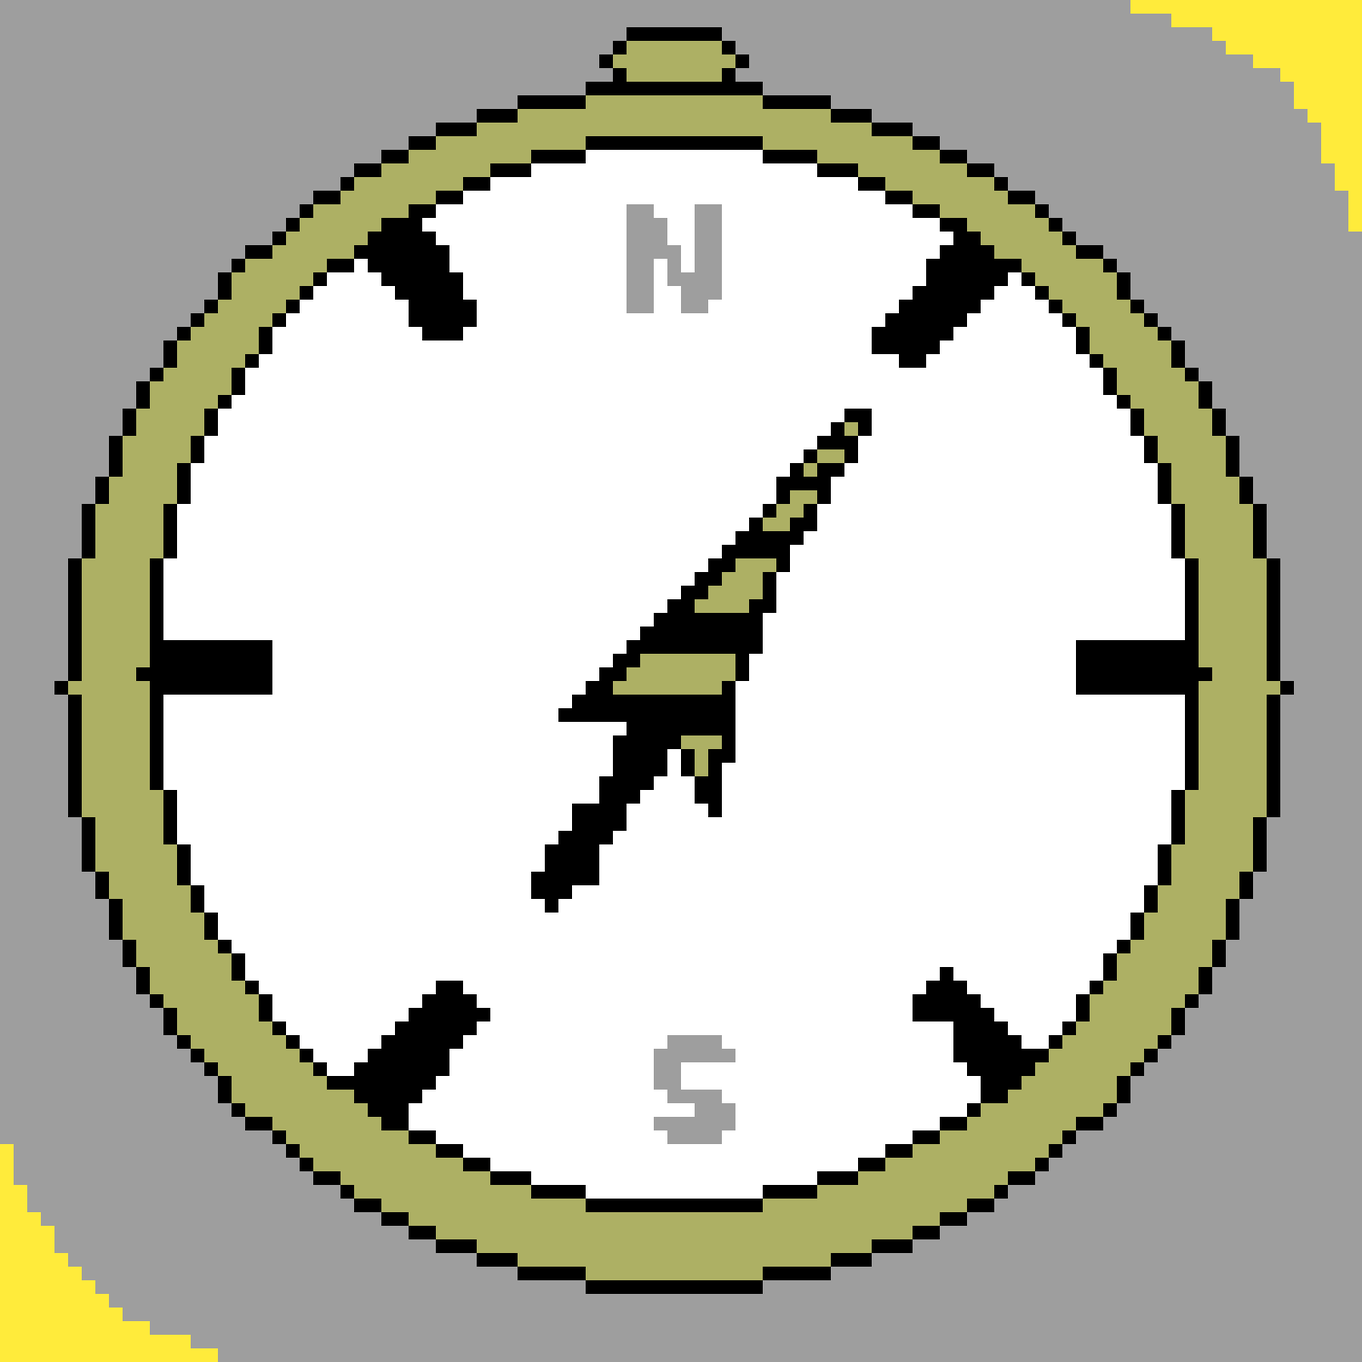
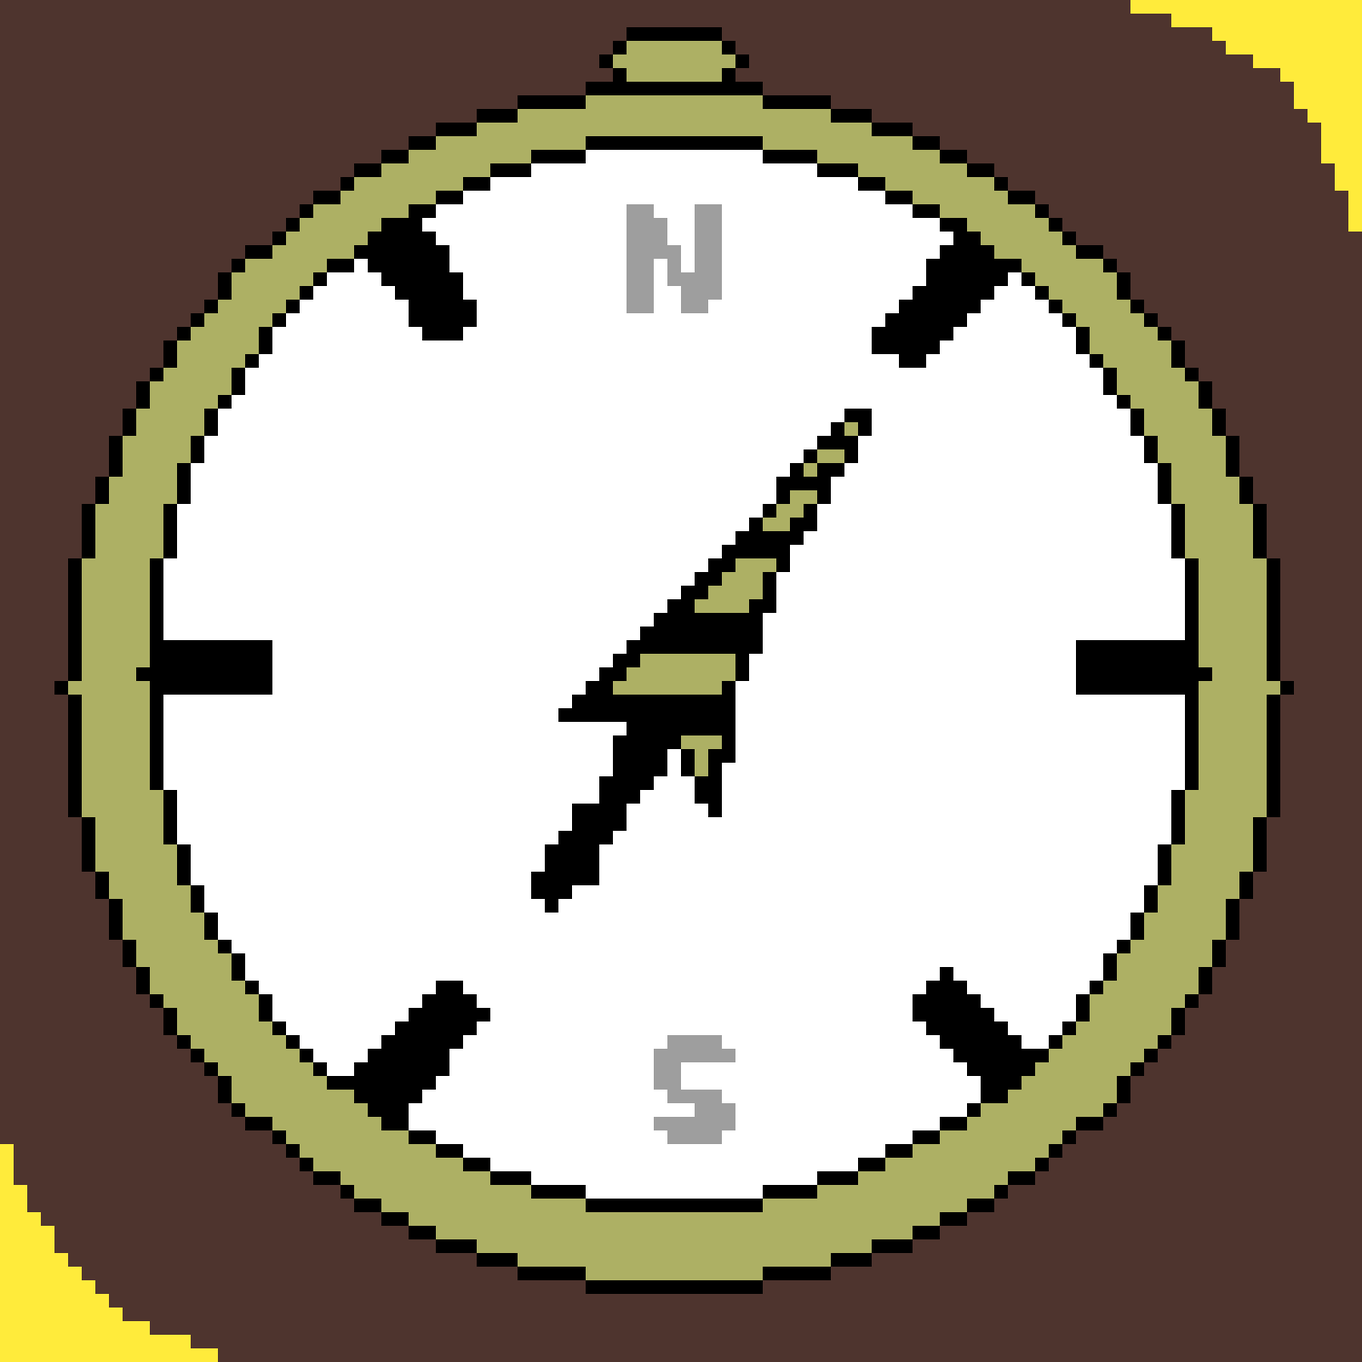
Add campus branding, bishop POI pins and animated guide dialogue

diff --git a/frontend/src/components/MapOverlays.tsx b/frontend/src/components/MapOverlays.tsx
@@ -1,9 +1,11 @@
 import { useEffect, useRef } from 'react';
-import { AttributionControl, LngLatBounds, type Map, type GeoJSONSource } from 'maplibre-gl';
+import { AttributionControl, LngLatBounds, Marker, type Map, type GeoJSONSource } from 'maplibre-gl';
 import type { FeatureCollection, Point } from 'geojson';
 import type { CampusPoi } from '../data/pois';
 import type { UserLocation } from '../services/location';
 import type { NearestRoute } from '../services/routing';
+import bishopPin from '../assets/W_Bishop.png';
+import './MapOverlays.css';
 
 interface MapOverlaysProps {
   map: Map | null;
@@ -12,24 +14,30 @@ interface MapOverlaysProps {
   route: NearestRoute | null;
 }
 
-const SOURCE_POIS = 'campus-custom-pois';
 const SOURCE_ROUTE = 'campus-walking-route';
 const SOURCE_LOCATION = 'campus-user-location';
-const LAYERS = ['campus-route-outline', 'campus-route-line', 'campus-poi-points', 'campus-location-point'];
+const LAYERS = ['campus-route-outline', 'campus-route-line', 'campus-location-point', 'campus-route-glow'];
 
 export default function MapOverlays({ map, pois, location, route }: MapOverlaysProps) {
   const fittedDestination = useRef<string | null>(null);
   useEffect(() => {
     if (!map) return;
-    const poiData: FeatureCollection<Point> = {
-      type: 'FeatureCollection',
-      features: pois.map((poi) => ({
-        type: 'Feature',
-        id: poi.id,
-        geometry: { type: 'Point', coordinates: poi.coordinates },
-        properties: { id: poi.id, name: poi.name, nearest: poi.id === route?.poi.id },
-      })),
-    };
+    const markers = pois.map((poi) => {
+      const element = document.createElement('div');
+      const destination = poi.id === route?.poi.id;
+      element.className = `campus-poi-pin${destination ? ' campus-poi-pin-destination' : ''}`;
+      element.title = `${poi.name}${destination ? ' · Destination' : ''}`;
+      const icon = document.createElement('img');
+      icon.src = bishopPin;
+      icon.alt = element.title;
+      icon.draggable = false;
+      element.append(icon);
+      return new Marker({ element, anchor: 'bottom' }).setLngLat(poi.coordinates).addTo(map);
+    });
+    return () => { for (const marker of markers) marker.remove(); };
+  }, [map, pois, route?.poi.id]);
+  useEffect(() => {
+    if (!map) return;
     const locationData: FeatureCollection<Point> = {
       type: 'FeatureCollection',
       features: location ? [{
@@ -43,12 +51,15 @@ export default function MapOverlays({ map, pois, location, route }: MapOverlaysP
     const sync = () => {
       if (synced) return;
       synced = true;
-      if (!map.getSource(SOURCE_POIS)) map.addSource(SOURCE_POIS, { type: 'geojson', data: poiData });
-      else (map.getSource(SOURCE_POIS) as GeoJSONSource).setData(poiData);
       if (!map.getSource(SOURCE_LOCATION)) map.addSource(SOURCE_LOCATION, { type: 'geojson', data: locationData });
       else (map.getSource(SOURCE_LOCATION) as GeoJSONSource).setData(locationData);
       if (route && !map.getSource(SOURCE_ROUTE)) {
         map.addSource(SOURCE_ROUTE, { type: 'geojson', data: route.feature });
+        map.addLayer({
+          id: LAYERS[3], type: 'line', source: SOURCE_ROUTE,
+          layout: { 'line-join': 'round', 'line-cap': 'round' },
+          paint: { 'line-color': '#ffc904', 'line-width': 18, 'line-blur': 7, 'line-opacity': 0.35 },
+        });
         map.addLayer({
           id: LAYERS[0], type: 'line', source: SOURCE_ROUTE,
           layout: { 'line-join': 'round', 'line-cap': 'round' },
@@ -60,17 +71,8 @@ export default function MapOverlays({ map, pois, location, route }: MapOverlaysP
           paint: { 'line-color': '#ffc904', 'line-width': 5 },
         });
       }
-      if (!map.getLayer(LAYERS[2])) map.addLayer({ // POI highlight
-        id: LAYERS[2], type: 'circle', source: SOURCE_POIS,
-        paint: {
-          'circle-radius': ['case', ['get', 'nearest'], 11, 7],
-          'circle-color': '#ffffff',
-          'circle-stroke-color': ['case', ['get', 'nearest'], '#ffffff', '#111111'],
-          'circle-stroke-width': 3,
-        },
-      });
-      if (!map.getLayer(LAYERS[3])) map.addLayer({
-        id: LAYERS[3], type: 'circle', source: SOURCE_LOCATION,
+      if (!map.getLayer(LAYERS[2])) map.addLayer({
+        id: LAYERS[2], type: 'circle', source: SOURCE_LOCATION,
         paint: { 'circle-radius': 7, 'circle-color': '#68c8ff', 'circle-stroke-color': '#ffffff', 'circle-stroke-width': 2 },
       });
     };
@@ -94,9 +96,9 @@ export default function MapOverlays({ map, pois, location, route }: MapOverlaysP
       if (!map.getStyle()) return;
       if (attribution && map.hasControl(attribution)) map.removeControl(attribution);
       for (const id of [...LAYERS].reverse()) if (map.getLayer(id)) map.removeLayer(id);
-      for (const id of [SOURCE_POIS, SOURCE_ROUTE, SOURCE_LOCATION]) if (map.getSource(id)) map.removeSource(id);
+      for (const id of [SOURCE_ROUTE, SOURCE_LOCATION]) if (map.getSource(id)) map.removeSource(id);
     };
-  }, [map, pois, location, route]);
+  }, [map, location, route]);
 
   useEffect(() => {
     if (!route) { fittedDestination.current = null; return; }

diff --git a/frontend/src/components/SpriteGuide.tsx b/frontend/src/components/SpriteGuide.tsx
@@ -6,6 +6,13 @@ import type { NearestRoute } from '../services/routing';
 import { distanceMeters, type UserLocation } from '../services/location';
 import { advanceGuidance } from '../services/guidance';
 import './SpriteGuide.css';
+import GuideDialogue from './GuideDialogue';
+
+const CHARACTERS = [
+  { name: 'Knightro', greeting: 'Your next quest awaits!', turn: 'Onward, Knight!', arrival: 'Quest complete! Nicely done.' },
+  { name: 'Citronaut', greeting: 'Ready for a campus expedition?', turn: 'Next stop, explorer!', arrival: 'Touchdown! We made it.' },
+  { name: 'Lenny', greeting: 'Let’s take a little campus stroll.', turn: 'You’ve got this. Here’s our next move.', arrival: 'Look at us go! We made it.' },
+];
 
 export default function SpriteGuide({ route, location, navigating, arrived }: {
   route: NearestRoute; location: UserLocation | null; navigating: boolean; arrived: boolean;
@@ -24,11 +31,15 @@ export default function SpriteGuide({ route, location, navigating, arrived }: {
   const message = arrived
     ? route.poi.entranceCoordinates ? 'We made it to the entrance! Head inside to your destination.' : 'We made it! You have reached your destination.'
     : route.steps[index]?.instruction ?? 'Follow the gold path toward your destination. Turn-by-turn directions are unavailable for this route.';
-  return <section className="sprite-guide" aria-label="Sprite walking guide">
+  const character = CHARACTERS[sprite];
+  const dialogue = `${arrived ? character.arrival : index === 0 ? character.greeting : character.turn} ${message}`;
+  return <section className={`sprite-guide${arrived ? ' guide-arrived' : ''}`} aria-label="Sprite walking guide">
     <div className="guide-chat">
-      <div className="guide-avatar" aria-hidden="true"><img src={[spriteOne, spriteTwo, spriteThree][sprite]} style={sprite === 1 ? { width: 256, height: 256, left: -54, top: -59 } : sprite === 2 ? { top: -80 } : undefined} alt="" /></div>
+      <div className="guide-avatar" aria-hidden="true"><img key={`${sprite}-${message}`} src={[spriteOne, spriteTwo, spriteThree][sprite]} style={sprite === 1 ? { width: 256, height: 256, left: -54, top: -59 } : sprite === 2 ? { top: -80 } : undefined} alt="" /></div>
       <div className="guide-bubble">
-        <div role="status" aria-live="polite" aria-atomic="true"><strong>Campus guide</strong><p>{message}</p></div>
+        <div className="guide-nameplate"><strong>{character.name}</strong><span>{arrived ? '★ ARRIVED' : 'YOUR CAMPUS COMPANION'}</span></div>
+        <div key={dialogue} className="guide-dialogue-entry"><GuideDialogue text={dialogue} /></div>
+        {route.steps.length > 0 && <progress className="guide-progress" aria-label="Walking directions completed" max={route.steps.length} value={arrived ? route.steps.length : index} />}
     {!arrived && <>
       {route.steps.length > 0 && <p className="setup-note">Direction {index + 1} of {route.steps.length}</p>}
       {navigating && distance !== null && <p className="setup-note">About {distance} m to the next direction.</p>}
@@ -40,7 +51,7 @@ export default function SpriteGuide({ route, location, navigating, arrived }: {
       <summary>Change guide</summary>
       <label htmlFor="guide-character">Your guide</label>
       <select id="guide-character" value={sprite} onChange={(event) => setSprite(Number(event.target.value))}>
-        <option value={0}>Sprite 1</option><option value={1}>Sprite 2</option><option value={2}>Sprite 3</option>
+        {CHARACTERS.map((item, position) => <option key={item.name} value={position}>{item.name}</option>)}
       </select>
     </details>
       </div>

diff --git a/frontend/src/components/PoiPanel.tsx b/frontend/src/components/PoiPanel.tsx
@@ -2,6 +2,7 @@ import { POI_CATEGORIES, type CampusPoi, type PoiCategory } from '../data/pois';
 import type { NearestRoute } from '../services/routing';
 import type { UserLocation } from '../services/location';
 import './PoiPanel.css';
+import BrandLogo from './BrandLogo';
 
 interface PoiPanelProps {
   compassEnabled: boolean;
@@ -33,7 +34,7 @@ export default function PoiPanel(props: PoiPanelProps) {
   const destination = props.pois.find((poi) => poi.id === props.destinationId);
   const choosing = !props.route && !props.busy;
   return <section className="poi-panel" aria-label="Campus navigation">
-    <p className="panel-eyebrow">{props.arrived ? 'YOU MADE IT' : props.route ? 'ON YOUR WAY' : 'EXPLORE CAMPUS'}</p>
+    <div className="panel-brand"><BrandLogo small /><p className="panel-eyebrow">{props.arrived ? 'YOU MADE IT' : props.route ? 'ON YOUR WAY' : 'EXPLORE CAMPUS'}</p></div>
     <h1>{props.route ? props.route.poi.name : 'Where are we going?'}</h1>
     {choosing && <>
       <label htmlFor="poi-category">What are you looking for?</label>
@@ -41,6 +42,10 @@ export default function PoiPanel(props: PoiPanelProps) {
         {POI_CATEGORIES.map((item) => <option key={item.id} value={item.id}>{item.label}</option>)}
       </select>
       <p className="setup-note">Find the nearest spot, or choose one below.</p>
+      <button className="route-button" onClick={destination ? props.onNavigate : props.onRouteNearest} disabled={!props.hasRouting || props.pois.length === 0}>
+        {destination ? 'Start walking' : 'Take me to the nearest'}
+      </button>
+      {destination && <button className="quiet-button" onClick={() => props.onDestinationChange('')}>Use nearest instead</button>}
       <ul className="poi-list" aria-label={categoryName}>
         {props.pois.map((poi) => <li key={poi.id}>
           <button onClick={() => props.onFocusPoi(poi)} aria-pressed={poi.id === props.destinationId}>
@@ -49,10 +54,6 @@ export default function PoiPanel(props: PoiPanelProps) {
         </li>)}
       </ul>
       {props.pois.length === 0 && <p>No destinations in this category yet.</p>}
-      <button className="route-button" onClick={destination ? props.onNavigate : props.onRouteNearest} disabled={!props.hasRouting || props.pois.length === 0}>
-        {destination ? 'Start walking' : 'Take me to the nearest'}
-      </button>
-      {destination && <button className="quiet-button" onClick={() => props.onDestinationChange('')}>Use nearest instead</button>}
     </>}
     {props.busy && <button className="secondary-button" onClick={props.onClearRoute}>Cancel</button>}
     <p className="route-status" role="status" aria-live="polite">{props.status}</p>

diff --git a/frontend/src/components/SpriteGuide.css b/frontend/src/components/SpriteGuide.css
@@ -14,5 +14,24 @@
 .guide-preferences label { display: block; margin-top: 10px; }
 .guide-preferences select { width: 100%; margin-top: 6px; padding: 8px; background: #111; color: #ffc904; border: 1px solid #8c783e; }
 .sprite-guide :focus-visible { outline: 2px solid white; outline-offset: 3px; }
+.sprite-guide { animation: companion-enter .45s cubic-bezier(.2,.9,.3,1.2) both; }
+.guide-avatar img { animation: companion-hop .5s ease-out; }
+.guide-bubble { border-radius: 14px; box-shadow: 4px 4px #000, 0 0 22px #ffc90418; }
+.guide-nameplate { display: flex; flex-wrap: wrap; align-items: center; gap: 6px 12px; }
+.guide-nameplate strong { font-size: 22px; }
+.guide-nameplate span { font-size: 10px; letter-spacing: 1px; color: #c4b88d; }
+.guide-dialogue { line-height: 1.5; min-height: 4.5em; margin-top: 10px; }
+.guide-dialogue-entry { animation: dialogue-enter .25s ease-out; }
+.guide-reveal { margin-top: 10px; padding: 4px 0; border: 0; background: transparent; color: #c4b88d; text-decoration: underline; font-size: 12px; cursor: pointer; }
+.guide-progress { display: block; width: 100%; height: 5px; margin-top: 16px; border: 0; background: #49402b; accent-color: #ffc904; }
+.guide-progress::-webkit-progress-bar { background: #49402b; border-radius: 8px; }
+.guide-progress::-webkit-progress-value { background: #ffc904; border-radius: 8px; transition: width .4s ease; }
+.guide-progress::-moz-progress-bar { background: #ffc904; }
+.guide-arrived .guide-bubble { border-color: #b9e98a; box-shadow: 4px 4px #000, 0 0 24px #b9e98330; }
+.guide-sr-only { position: absolute; width: 1px; height: 1px; padding: 0; margin: -1px; overflow: hidden; clip-path: inset(50%); white-space: nowrap; border: 0; }
+@keyframes companion-enter { from { opacity: 0; transform: translateY(24px) scale(.96); } to { opacity: 1; transform: translateY(0) scale(1); } }
+@keyframes companion-hop { 0%, 100% { transform: translateY(0); } 45% { transform: translateY(-10px); } }
+@keyframes dialogue-enter { from { opacity: 0; transform: translateY(6px); } to { opacity: 1; transform: translateY(0); } }
+@media (prefers-reduced-motion: reduce) { .sprite-guide, .guide-avatar img, .guide-dialogue-entry { animation: none; } .guide-progress::-webkit-progress-value { transition: none; } }
 @media (max-width: 639px) { .has-guide > .poi-panel { top: 72px; bottom: auto; max-height: 28dvh; } .sprite-guide { right: 10px; width: calc(100% - 20px); } .guide-bubble { max-height: 36dvh; padding: 12px; } }
 @media (min-width: 640px) and (max-width: 850px) { .sprite-guide { width: calc(100% - 356px); } }

diff --git a/frontend/src/data/pois.ts b/frontend/src/data/pois.ts
@@ -5,6 +5,8 @@ export const POI_CATEGORIES = [
   { id: 'vending', label: 'Vending machines' },
   { id: 'bus-stop', label: 'Bus stops' },
   { id: 'classroom', label: 'Classrooms' },
+  { id: 'printer', label: 'Printers' },
+  { id: 'library', label: 'Libraries' },
 ] as const;
 
 export type PoiCategory = typeof POI_CATEGORIES[number]['id'];
@@ -26,6 +28,48 @@ export interface CampusPoi {
 // DEMO DATA: approximate UCF-area coordinates, not verified real POIs or entrances.
 // Replace these records with your surveyed campus locations before publishing.
 export const campusPois: CampusPoi[] = [
+  {
+    id: 'demo-printer-central',
+    name: 'Demo printer · Central',
+    category: 'printer',
+    coordinates: [-81.2008, 28.6018],
+    description: 'Unverified test printer location near the campus center.',
+  },
+  {
+    id: 'demo-printer-east',
+    name: 'Demo printer · East',
+    category: 'printer',
+    coordinates: [-81.1978, 28.6021],
+    description: 'Unverified test printer location east of the campus center.',
+  },
+  {
+    id: 'demo-printer-north',
+    name: 'Demo printer · North',
+    category: 'printer',
+    coordinates: [-81.2012, 28.6040],
+    description: 'Unverified test printer location north of the campus center.',
+  },
+  {
+    id: 'demo-library-south',
+    name: 'Demo library · South',
+    category: 'library',
+    coordinates: [-81.2010, 28.6008],
+    description: 'Unverified test library location. Not an actual campus library listing.',
+  },
+  {
+    id: 'demo-library-west',
+    name: 'Demo library · West',
+    category: 'library',
+    coordinates: [-81.2035, 28.6028],
+    description: 'Unverified test library location west of the campus center.',
+  },
+  {
+    id: 'demo-library-northeast',
+    name: 'Demo library · Northeast',
+    category: 'library',
+    coordinates: [-81.1985, 28.6040],
+    description: 'Unverified test library location northeast of the campus center.',
+  },
   {
     id: 'demo-vending-central',
     name: 'Demo vending machine · Central',

diff --git a/frontend/src/components/GuideDialogue.tsx b/frontend/src/components/GuideDialogue.tsx
@@ -1,0 +1,27 @@
+import { useEffect, useState } from 'react';
+
+/** Announce a complete direction once; animate only the visual text. */
+export default function GuideDialogue({ text }: { text: string }) {
+  const [count, setCount] = useState(0);
+  useEffect(() => {
+    const preference = window.matchMedia('(prefers-reduced-motion: reduce)');
+    let timer: ReturnType<typeof setInterval> | undefined;
+    const start = () => {
+      clearInterval(timer);
+      if (preference.matches) { setCount(text.length); return; }
+      setCount(0);
+      timer = setInterval(() => setCount((current) => {
+        if (current >= text.length) { clearInterval(timer); return current; }
+        return current + 1;
+      }), 20);
+    };
+    start();
+    preference.addEventListener('change', start);
+    return () => { clearInterval(timer); preference.removeEventListener('change', start); };
+  }, [text]);
+  return <>
+    <span className="guide-sr-only" role="status" aria-live="polite" aria-atomic="true">{text}</span>
+    <p className="guide-dialogue" aria-hidden="true">{text.slice(0, count)}{count < text.length && <span className="guide-cursor">▌</span>}</p>
+    {count < text.length && <button className="guide-reveal" onClick={() => setCount(text.length)}>Show full direction</button>}
+  </>;
+}

diff --git a/frontend/src/components/PoiPanel.css b/frontend/src/components/PoiPanel.css
@@ -57,6 +57,15 @@
 .panel-details[open] summary { margin-bottom: 12px; }
 .route-result { margin-top: 0; padding-top: 0; border-top: 0; }
 .route-summary { color: #ffc904; font-size: 19px; }
+.poi-panel { border-radius: 16px; animation: panel-enter .35s ease-out; }
+.poi-panel button, .poi-panel select { border-radius: 9px; transition: background .18s ease, box-shadow .18s ease, transform .18s ease; }
+.poi-panel button:not(:disabled):hover { transform: translateY(-2px); }
+.poi-panel button:not(:disabled):active { transform: translateY(1px); }
+.route-button:not(:disabled):hover { background: #ffdc54; box-shadow: 0 0 18px #ffc90430; }
+.poi-list button { margin-bottom: 6px; padding: 12px 10px; border: 1px solid #655a3655; background: #222; }
+.poi-list button[aria-pressed="true"] { box-shadow: 0 0 12px #ffc90418; }
+@keyframes panel-enter { from { opacity: 0; transform: translateY(12px); } to { opacity: 1; transform: translateY(0); } }
+@media (prefers-reduced-motion: reduce) { .poi-panel { animation: none; } .poi-panel button, .poi-panel select { transition: none; } .poi-panel button:not(:disabled):hover, .poi-panel button:not(:disabled):active { transform: none; } }
 .guide-preferences { border: 0; padding-top: 0; }
 
 @media (max-width: 639px) {

diff --git a/frontend/src/pages/MainMenu.tsx b/frontend/src/pages/MainMenu.tsx
@@ -1,4 +1,5 @@
 import MapView from '../components/MapView';
+import BrandLogo from '../components/BrandLogo';
 
 export default function MainMenu({ onMap, onIndoor }: { onMap: () => void; onIndoor: () => void }) {
   return <main className="app main-menu" aria-label="Campus navigation main menu">
@@ -6,7 +7,7 @@ export default function MainMenu({ onMap, onIndoor }: { onMap: () => void; onInd
     <div className="menu-shade" />
     <section className="menu-card" aria-labelledby="menu-title">
       <p className="menu-eyebrow">UCF CAMPUS · YOUR NEXT ADVENTURE</p>
-      <h1 id="menu-title">Go Forth<span>Find your way.</span></h1>
+      <div className="menu-brand"><BrandLogo /><h1 id="menu-title">Go Forth<span>Find your way.</span></h1></div>
       <p className="menu-intro">Across campus or down the hallway—choose where your journey starts.</p>
       <nav className="menu-options" aria-label="Navigation modes">
         <button onClick={onMap} className="menu-option">

diff --git a/frontend/src/components/MapOverlays.css b/frontend/src/components/MapOverlays.css
@@ -1,0 +1,6 @@
+.campus-poi-pin { width: 32px; height: 44px; }
+.campus-poi-pin::before { content: ''; position: absolute; bottom: -3px; left: 1px; width: 30px; height: 12px; border-radius: 50%; background: #ffc90430; box-shadow: 0 0 10px 3px #ffc90445; }
+.campus-poi-pin img { position: relative; display: block; width: 100%; height: 100%; object-fit: contain; image-rendering: pixelated; filter: drop-shadow(0 1px 1px #000) drop-shadow(0 0 3px #fff8); }
+.campus-poi-pin-destination { width: 40px; height: 54px; z-index: 1; }
+.campus-poi-pin-destination::before { left: 0; width: 40px; background: #ffc90465; box-shadow: 0 0 14px 5px #ffc90470; }
+.campus-poi-pin-destination img { filter: drop-shadow(0 1px 2px #000) drop-shadow(0 0 5px #ffc904); }

diff --git a/frontend/src/components/BrandLogo.css b/frontend/src/components/BrandLogo.css
@@ -1,0 +1,6 @@
+.brand-logo { display: block; width: 72px; height: 72px; flex: 0 0 auto; object-fit: cover; border-radius: 16px; border: 2px solid #8c783e; box-shadow: 3px 3px 0 #0005; image-rendering: pixelated; }
+.brand-logo-small { width: 36px; height: 36px; border-radius: 9px; }
+.menu-brand { display: flex; align-items: center; gap: 18px; margin-bottom: 12px; }
+.panel-brand { display: flex; align-items: center; gap: 12px; margin-bottom: 12px; }
+.panel-brand .panel-eyebrow { margin: 0; }
+@media (max-width: 380px) { .menu-brand { gap: 12px; } .menu-brand .brand-logo { width: 56px; height: 56px; border-radius: 12px; } }

diff --git a/frontend/src/components/BrandLogo.tsx b/frontend/src/components/BrandLogo.tsx
@@ -1,0 +1,6 @@
+import compassLogo from '../assets/compass-updated.png';
+import './BrandLogo.css';
+
+export default function BrandLogo({ small = false }: { small?: boolean }) {
+  return <img className={`brand-logo${small ? ' brand-logo-small' : ''}`} src={compassLogo} alt="Go Forth compass logo" width={small ? 36 : 72} height={small ? 36 : 72} />;
+}

diff --git a/frontend/src/map/ucfRetroTheme.ts b/frontend/src/map/ucfRetroTheme.ts
@@ -111,7 +111,7 @@ function themeLayer(layer: LayerSpecification): LayerSpecification {
         },
         paint: {
           ...paint,
-          'text-color': colors.gold,
+          'text-color': '#cbaf4c',
           'text-halo-color': colors.background,
           'text-halo-width': 1,
           'text-halo-blur': 0,
